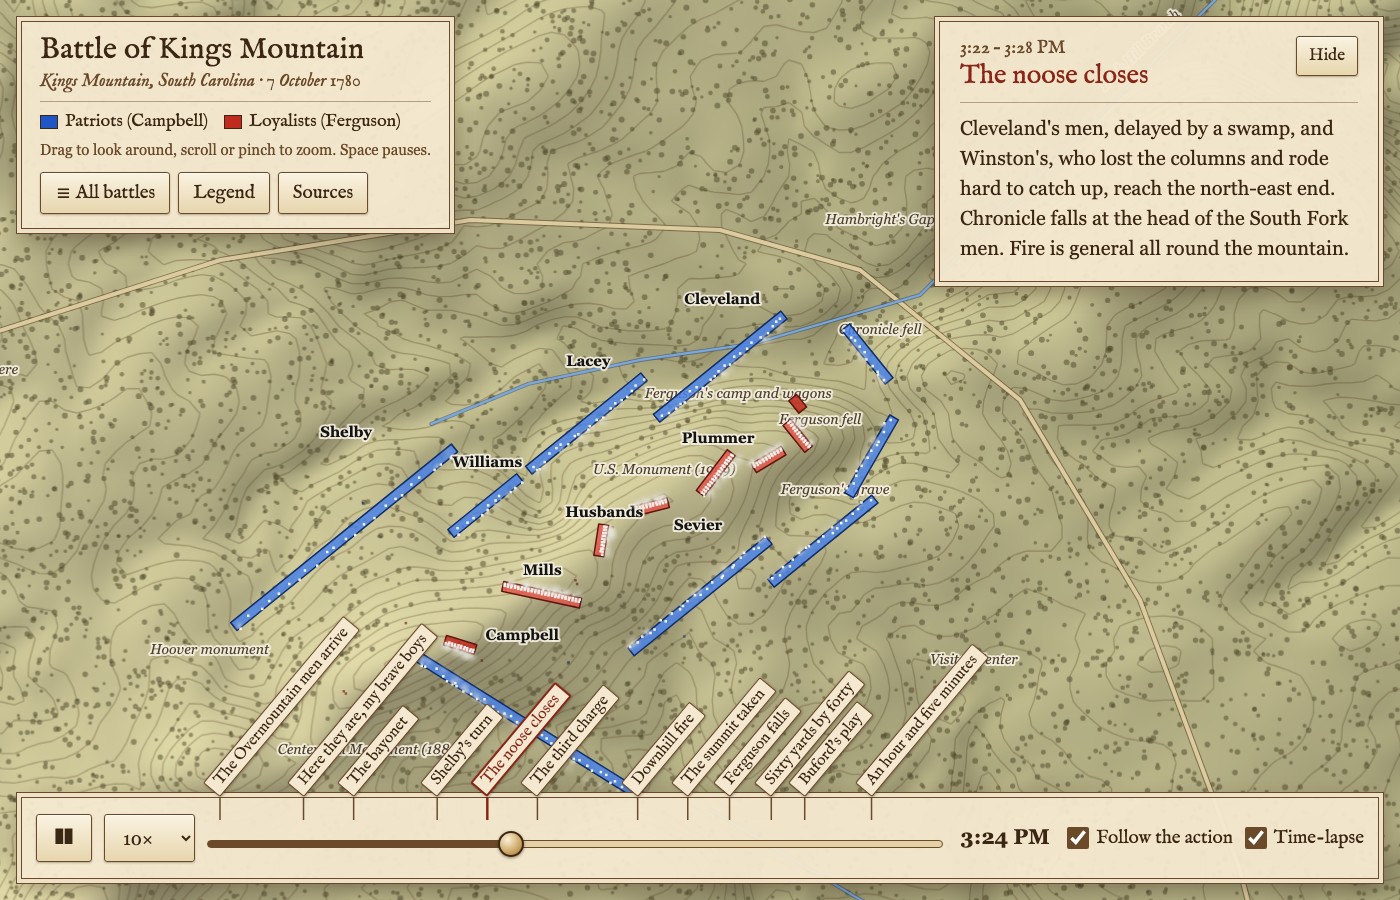
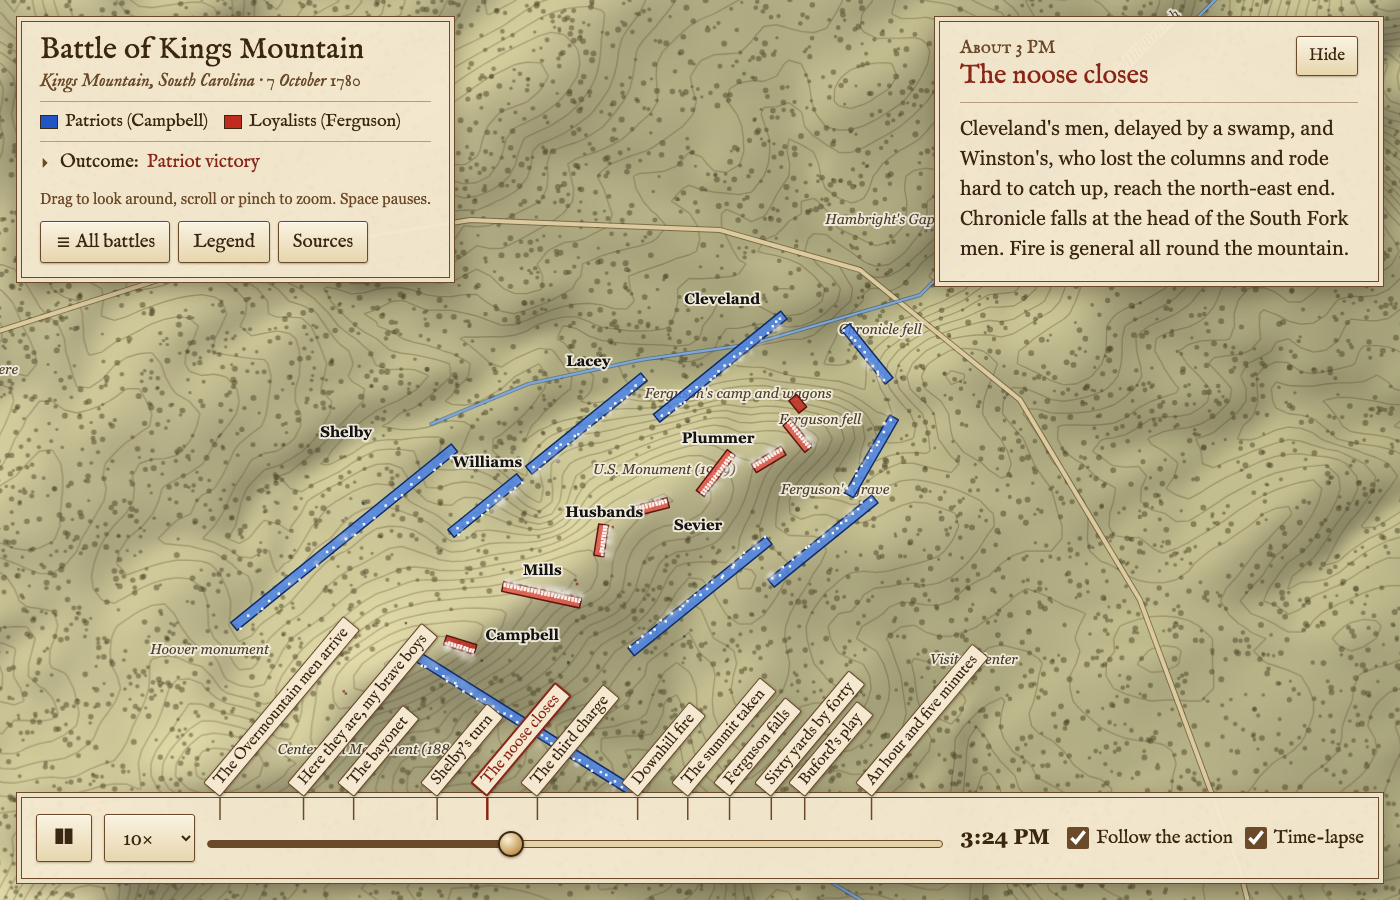
Story gives chapters to the nearest hour unless the time is recorded
Times between recorded moments are estimates, so the story panel now
says "About 3 PM" instead of a span to the minute. A chapter whose
time the sources record carries it as when: Trenton's 'exactly at
eight', the Yorktown hours from Washington's diary, Bunker Hill's
'about half past three'. The playback clock still runs by the minute.

Claude-Session: https://claude.ai/code/session_01US5GXUxojnCZWhZHcue3aU

Changed region(s): [[0.0, 0.1556, 0.3379, 0.3422], [0.6757, 0.0311, 0.7679, 0.0622]]

diff --git a/app.js b/app.js
@@ -402,7 +402,7 @@ function buildMarks(b) {
   ui.marks.replaceChildren(svg);
   leads = []; marks = b.events.map(ev => {
     const el = document.createElement('button');
-    el.textContent = ev.title; el.title = `${ev.title} · ${fmtTime(ev.t)}`;
+    el.textContent = ev.title; el.title = `${ev.title} · ${chapterWhen(ev)}`;
     el.onclick = () => { follow = true; ui.follow.checked = true; seek(ev.t); };
     ui.marks.append(el);
     leads.push(svg.appendChild(document.createElementNS('http://www.w3.org/2000/svg', 'path')));
@@ -483,7 +483,7 @@ function updateHud() {
     shownEvent = curEvent;
     ui.capTitle.textContent = curEvent?.title ?? '';
     ui.capText.textContent = curEvent?.text ?? '';
-    ui.capWhen.textContent = curEvent ? chapterSpan(curEvent) : '';
+    ui.capWhen.textContent = curEvent ? chapterWhen(curEvent) : '';
     ui.caption.classList.toggle('show', !!curEvent);
     foldCaption(false); // every new chapter opens with its story showing
     marks.forEach((m, i) => { m.classList.toggle('on', B.events[i] === curEvent); leads[i].classList.toggle('on', B.events[i] === curEvent); });
@@ -502,13 +502,12 @@ function updateHud() {
   if (best) ui.hover.innerHTML = `<b>${best.name}</b><br>${best.commander ? best.commander + '<br>' : ''}${B.sides[best.side].name} · ${best.type.replace('_', ' ')}<br>${Math.round(best.pose.strength)} men · ${STATE_TEXT[best.pose.state] ?? ''}`;
 }
 
-// "8:00 – 8:15 AM", or "26 Dec, 8:00 AM – 27 Dec, 3:00 AM": from this chapter to the next, the day given once when it does not change.
-function chapterSpan(ev) {
-  const i = B.events.indexOf(ev), a = fmtTime(ev.t), b = fmtTime(B.events[i + 1]?.t ?? B.endT);
-  const [da, ta] = a.includes(', ') ? a.split(', ') : ['', a], [db, tb] = b.includes(', ') ? b.split(', ') : ['', b];
-  const [ha, pa] = ta.split(' '), [, pb] = tb.split(' ');
-  if (da !== db) return `${a} – ${b}`;
-  return `${da ? da + ', ' : ''}${pa === pb ? ha : ta} – ${tb}`;
+// "About 3 PM", or "26 Dec, about noon": times between recorded moments are estimates, so the story gives the nearest hour.
+// A chapter whose time the sources record carries it as `when` ("8:00 AM", "about 3:30 PM").
+function chapterWhen(ev) {
+  const h = Math.round(ev.t / 3600), hh = mod(h, 24), d = fmtTime(ev.when ? ev.t : h * 3600);
+  const when = ev.when ?? `about ${hh === 0 ? 'midnight' : hh === 12 ? 'noon' : `${hh % 12} ${hh < 12 ? 'AM' : 'PM'}`}`;
+  return d.includes(', ') ? `${d.split(', ')[0]}, ${when}` : when[0].toUpperCase() + when.slice(1);
 }
 function foldCaption(v) {
   ui.caption.classList.toggle('folded', v);

diff --git a/battles/yorktown/make.py b/battles/yorktown/make.py
@@ -277,5 +277,8 @@ battle = dict(
         "What is reconstructed: the allied earthworks are 1930s rebuilds on sites fixed by archaeology; the visible British line is the 1862 Confederate rebuild over the 1781 one; Redoubts 1 to 8 are placed within about fifty metres; the French camp order by regiment is inferred from Ewald's plan; the trench guard is shown as one standing block for whichever division was on duty; the hours of the sortie (midnight to five) and the length of the fight for Redoubt 9 (seven minutes to half an hour) are given differently by every diarist.",
     ],
 )
+WHEN = {'The guns open': '3:00 PM', 'The storm': '2:00 AM', 'The drummer': '10:00 AM', 'The world turned upside down': '2:00 PM'}  # chapter times the sources record; the story gives the others to the nearest hour
+for e in battle["events"]:
+    if e["title"] in WHEN: e["when"] = WHEN[e["title"]]
 json.dump(battle, open("battles/yorktown/battle.json", "w"), indent=1)
 print(len(units), "units,", len(events), "events,", len(features), "features")

diff --git a/battles/trenton-princeton/make.py b/battles/trenton-princeton/make.py
@@ -303,5 +303,8 @@ battle = dict(
         "What is reconstructed: the times inside the Trenton fight between 'exactly eight' and 'over by ten'; the hours of Hand's stands on 2 January; the start of the night march (sources say midnight to two); the hours at Princeton, anchored only by 'daylight', 'about eight' and 'two hours in the town'; brigade strengths on 3 January; and the places of the orchard, the Quaker Bridge and Cochran's hill, taken off the modern road net.",
     ],
 )
+WHEN = {"Eight o'clock": '8:00 AM'}  # chapter times the sources record; the story gives the others to the nearest hour
+for e in battle["events"]:
+    if e["title"] in WHEN: e["when"] = WHEN[e["title"]]
 json.dump(battle, open("battles/trenton-princeton/battle.json", "w"), indent=1)
 print(len(units), "units,", len(events), "events,", len(features), "features; river polygon", len(DELAWARE), "points")

diff --git a/battles/bunker-hill/make.py b/battles/bunker-hill/make.py
@@ -217,5 +217,8 @@ battle = dict(
         "What is reconstructed: the exact trace of the breastwork, the flèches and the rail fence (from Frothingham's distances, not a survey); the ships' anchorages; British regimental strengths, which Gage's return does not give; how the American reinforcements were shared between the fence, the flèches and the breastwork; and the loss of each unit, scaled from the regimental tables.",
     ],
 )
+WHEN = {'The first assault': 'about 3:30 PM'}  # chapter times the sources record; the story gives the others to the nearest hour
+for e in battle["events"]:
+    if e["title"] in WHEN: e["when"] = WHEN[e["title"]]
 json.dump(battle, open("battles/bunker-hill/battle.json", "w"), indent=1)
 print(len(units), "units,", len(events), "events,", len(features), "features")

diff --git a/README.md b/README.md
@@ -41,7 +41,7 @@ screenshots see smoke and the camera; `,legend` opens the legend.
 
 The chapters sit above the scrubber as ticks, their titles slanting up over the map on leader lines
 so crowded chapters can be spread apart: click one to jump there (the camera follows again). **Legend** in the
-top panel lists only the symbols the current battle uses. The story panel opens at each new chapter with the chapter's span of time; **Hide** folds it to the title. **Outcome** in the top panel opens to the result and each side's losses (`outcome` in `make.py`).
+top panel lists only the symbols the current battle uses. The story panel opens at each new chapter with the chapter's approximate hour; **Hide** folds it to the title. **Outcome** in the top panel opens to the result and each side's losses (`outcome` in `make.py`).
 Every unit carries its name when there is
 room; labels that would overlap are dropped, biggest unit first.
 
@@ -74,7 +74,7 @@ than a day; one battle uses one form throughout.
 | `sides` | `{ id: { name, color, light, dark } }` |
 | `units[]` | `id, side, name, short?, commander, type, strength, guns?, loose?, ranks?, keys[]`; `short` is the map label; `loose` keeps a unit in open order; `ranks` defaults to 2 |
 | `keys[]` | `{ t, x, y, h, state, strength }`; omitted fields carry forward from the previous key |
-| `events[]` | `{ t, title, text, at: [x, y], view, speed }` captions; `at` and `view` (metres across) steer the auto-camera; `speed` sets the playback rate for that chapter while Follow is on (each chapter resets to the battle's `speed`) |
+| `events[]` | `{ t, title, text, at: [x, y], view, speed, when }` captions; the story gives `t` to the nearest hour ("About 3 PM") unless `when` holds a time the sources record; `at` and `view` (metres across) steer the auto-camera; `speed` sets the playback rate for that chapter while Follow is on (each chapter resets to the battle's `speed`) |
 | `features[]` | `{ type: road|creek|fence|works|trench, name, pts }` lines, `{ type: redoubt|battery|ship|camp|water, poly }` polygons (`water` draws a shoreline the modern ground no longer shows), `{ type: smoke, at, rate, spread }` a burning town or ship, or `{ name, at, rot }` labels; `from` and `until` show a feature only between those times, which is how siege lines get dug |
 | `tints[]` | `{ from, until, color }` weather washes over the whole map, such as a snowstorm, fading in and out over ten minutes |
 | `trees` | `density` in trees per square metre; `clear` is a list of polygons left bare, such as a summit |
